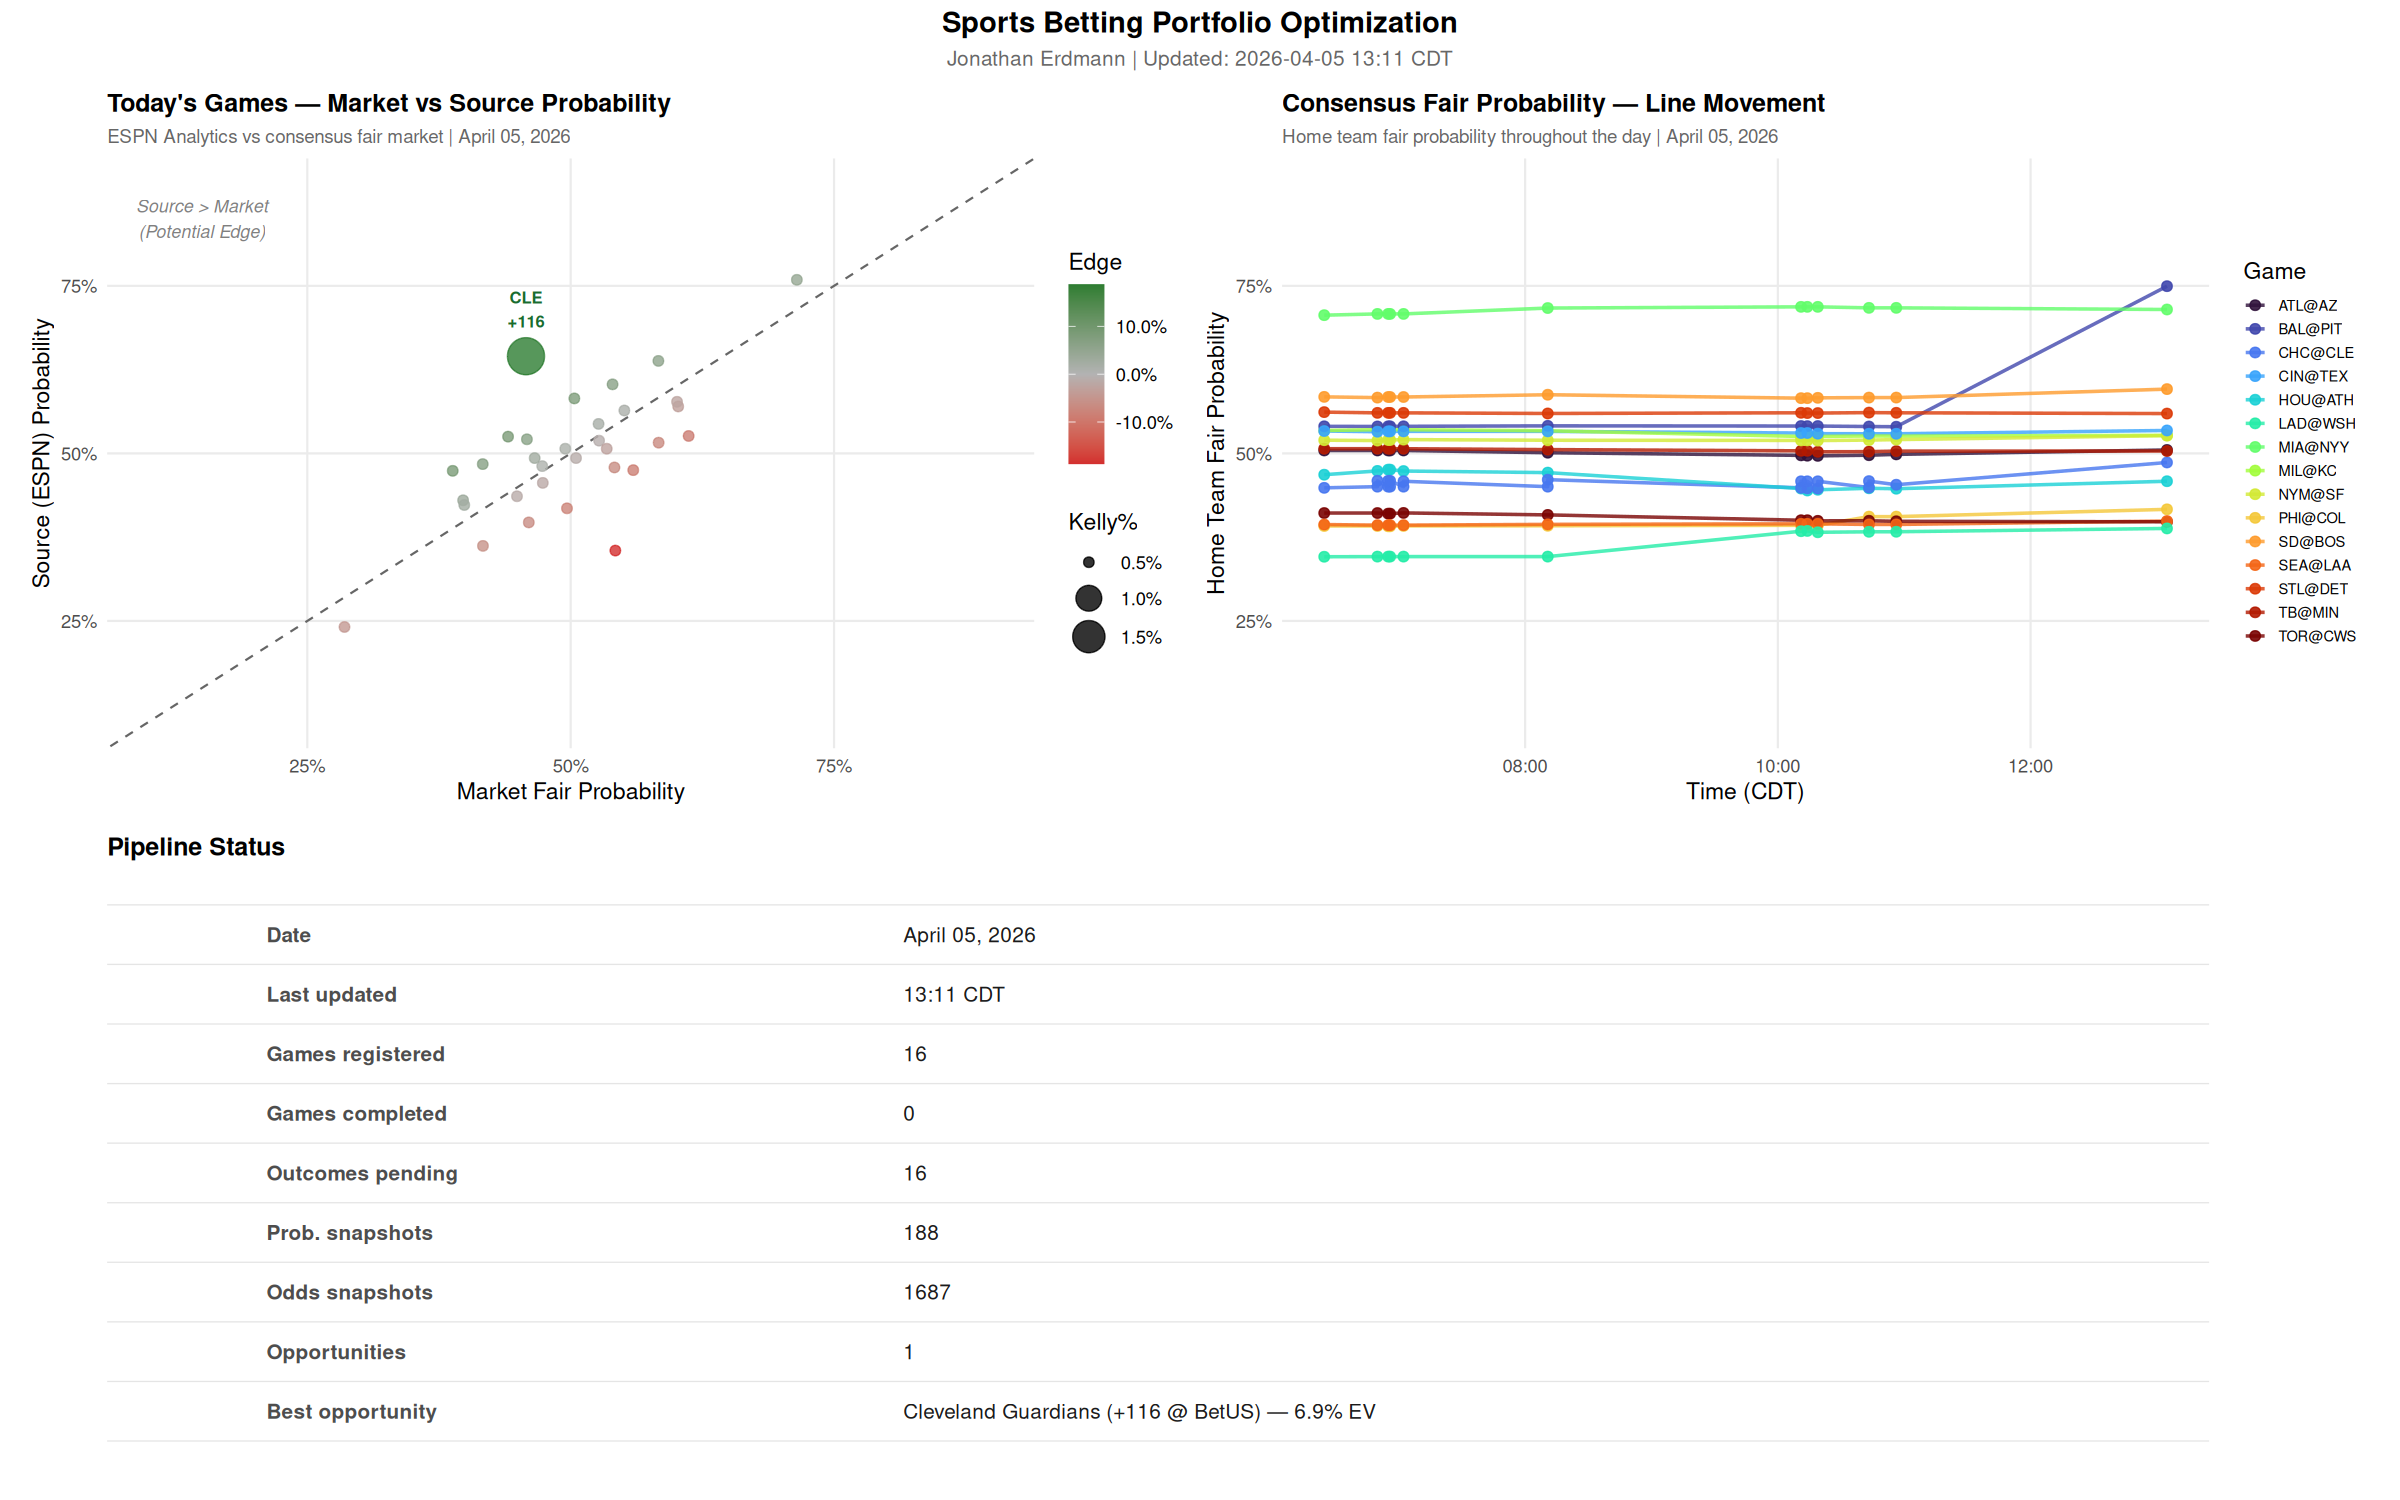
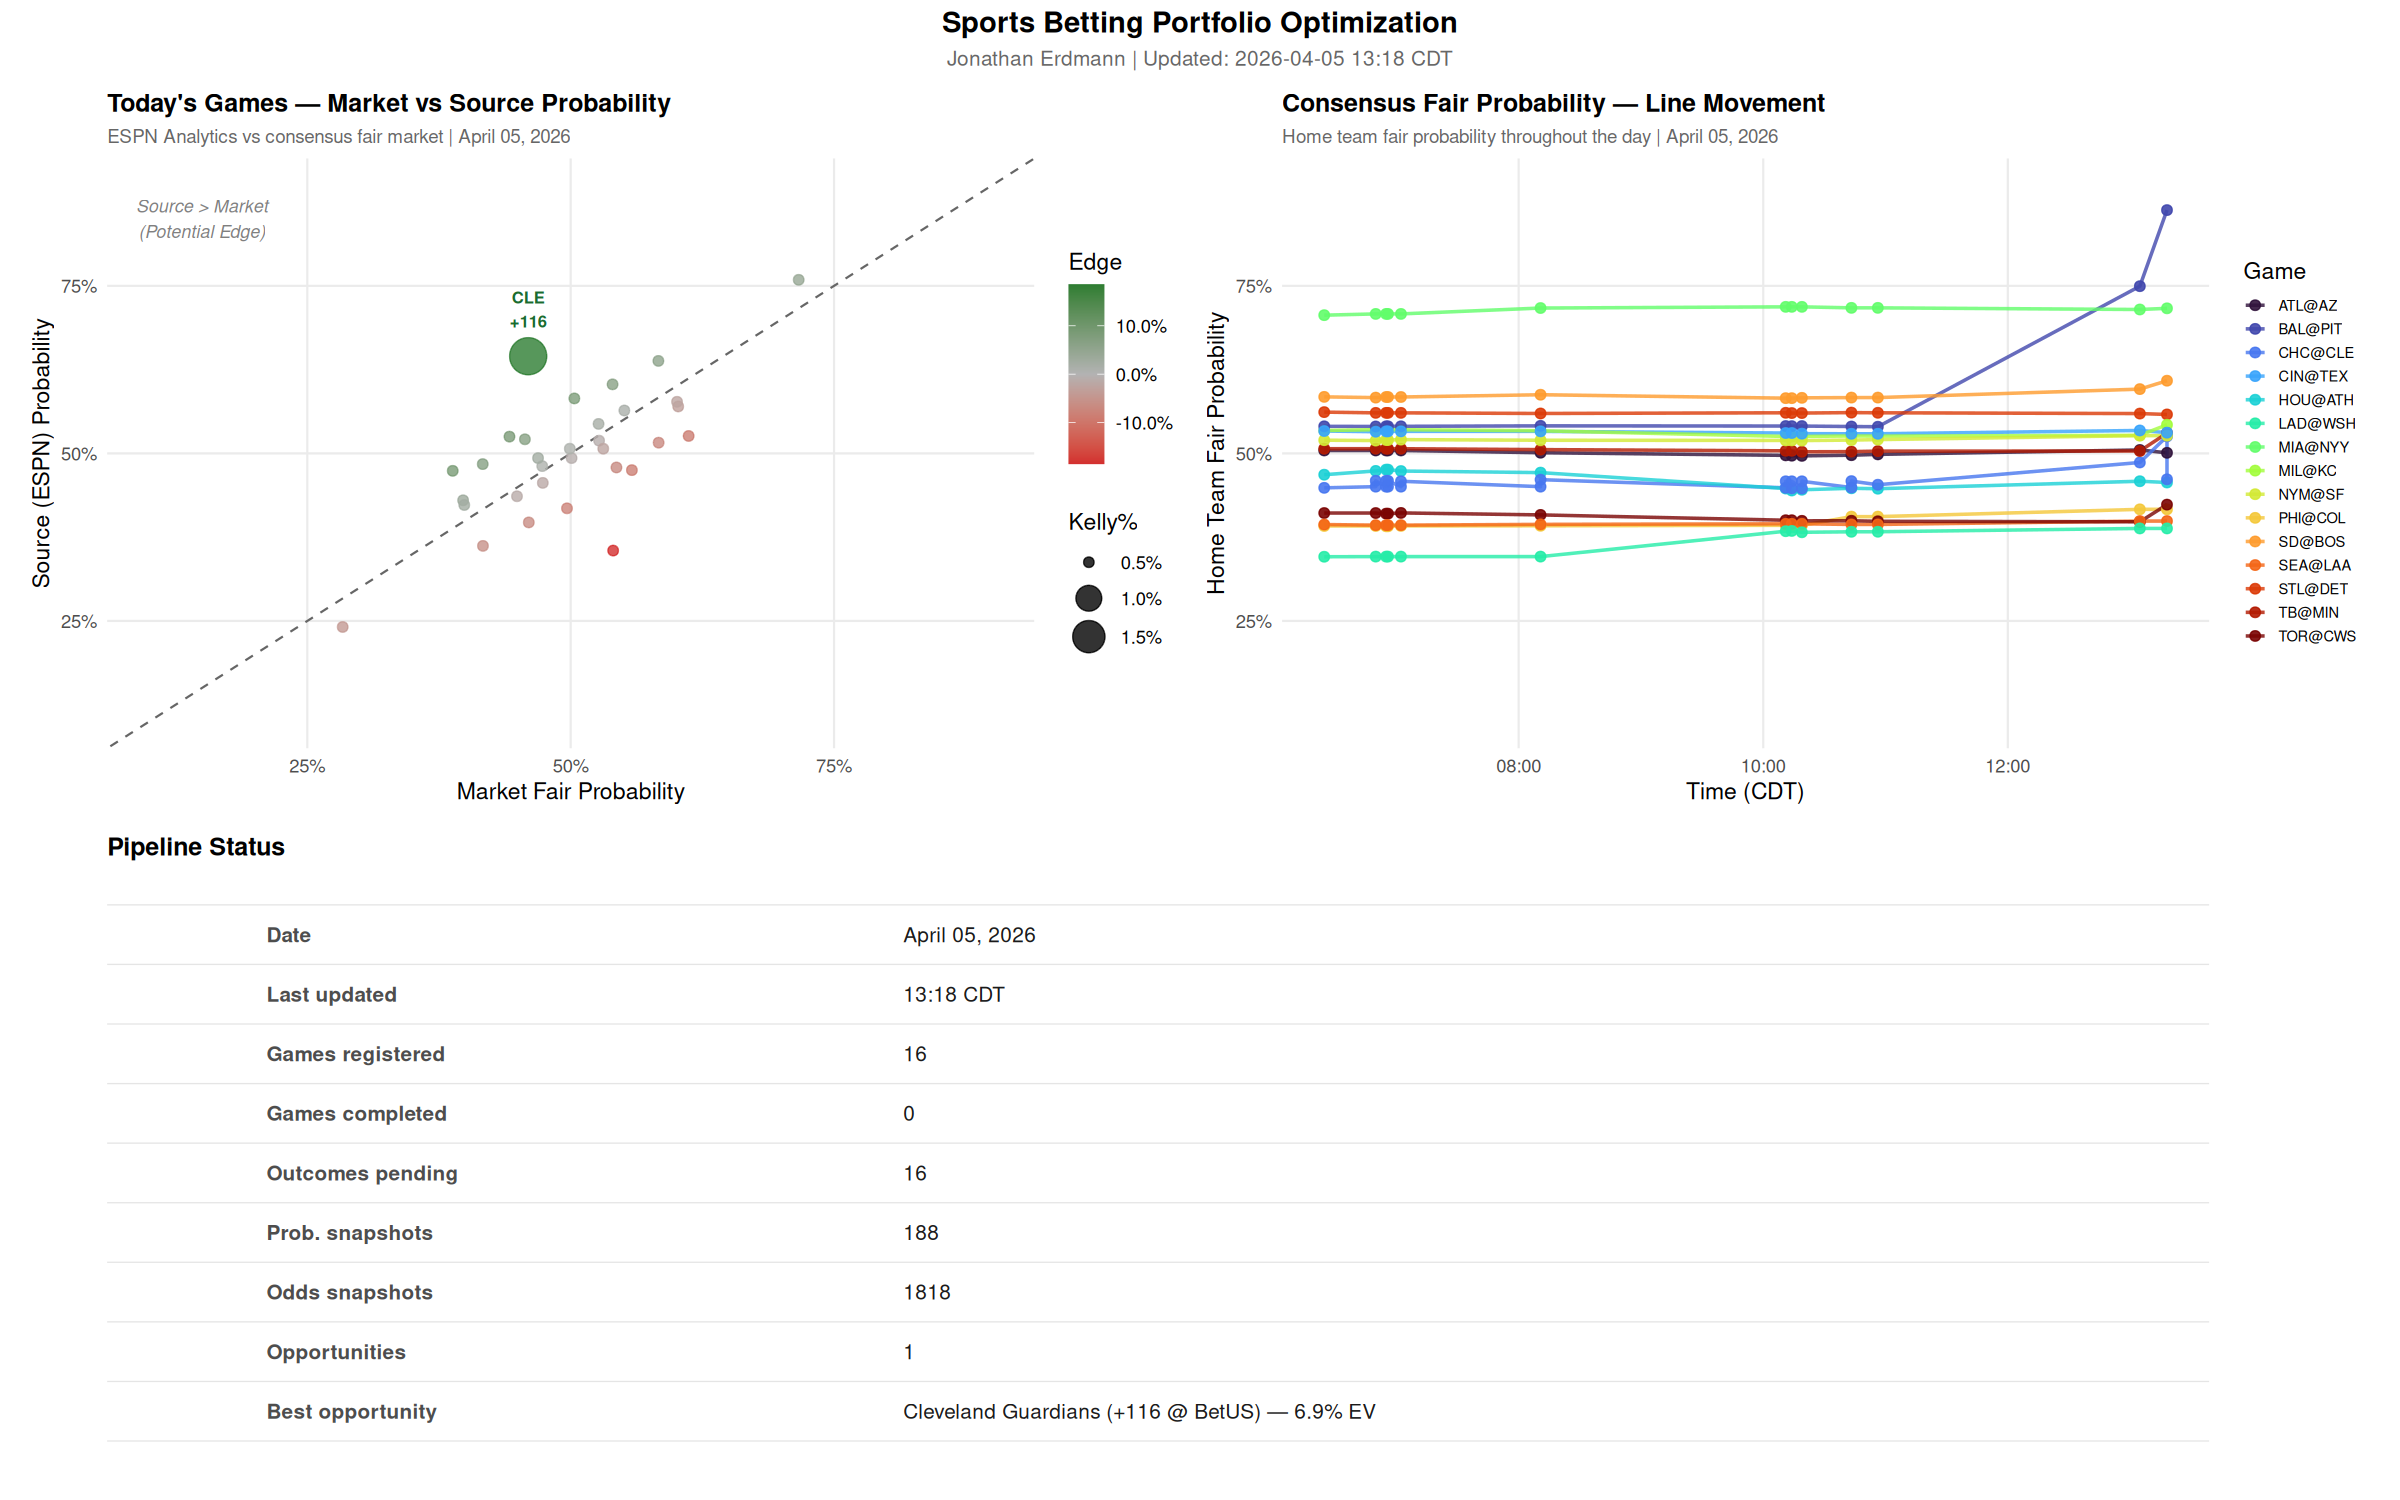
Update dashboard: 2026-04-05 13:18

diff --git a/projects/portfolio-optimization/dashboard.md b/projects/portfolio-optimization/dashboard.md
@@ -6,7 +6,7 @@ permalink: /projects/portfolio-optimization/dashboard/
 
 ## Daily Pipeline Dashboard
 
-**Last updated:** April 05, 2026 13:11 CDT
+**Last updated:** April 05, 2026 13:18 CDT
 
 ---
 
